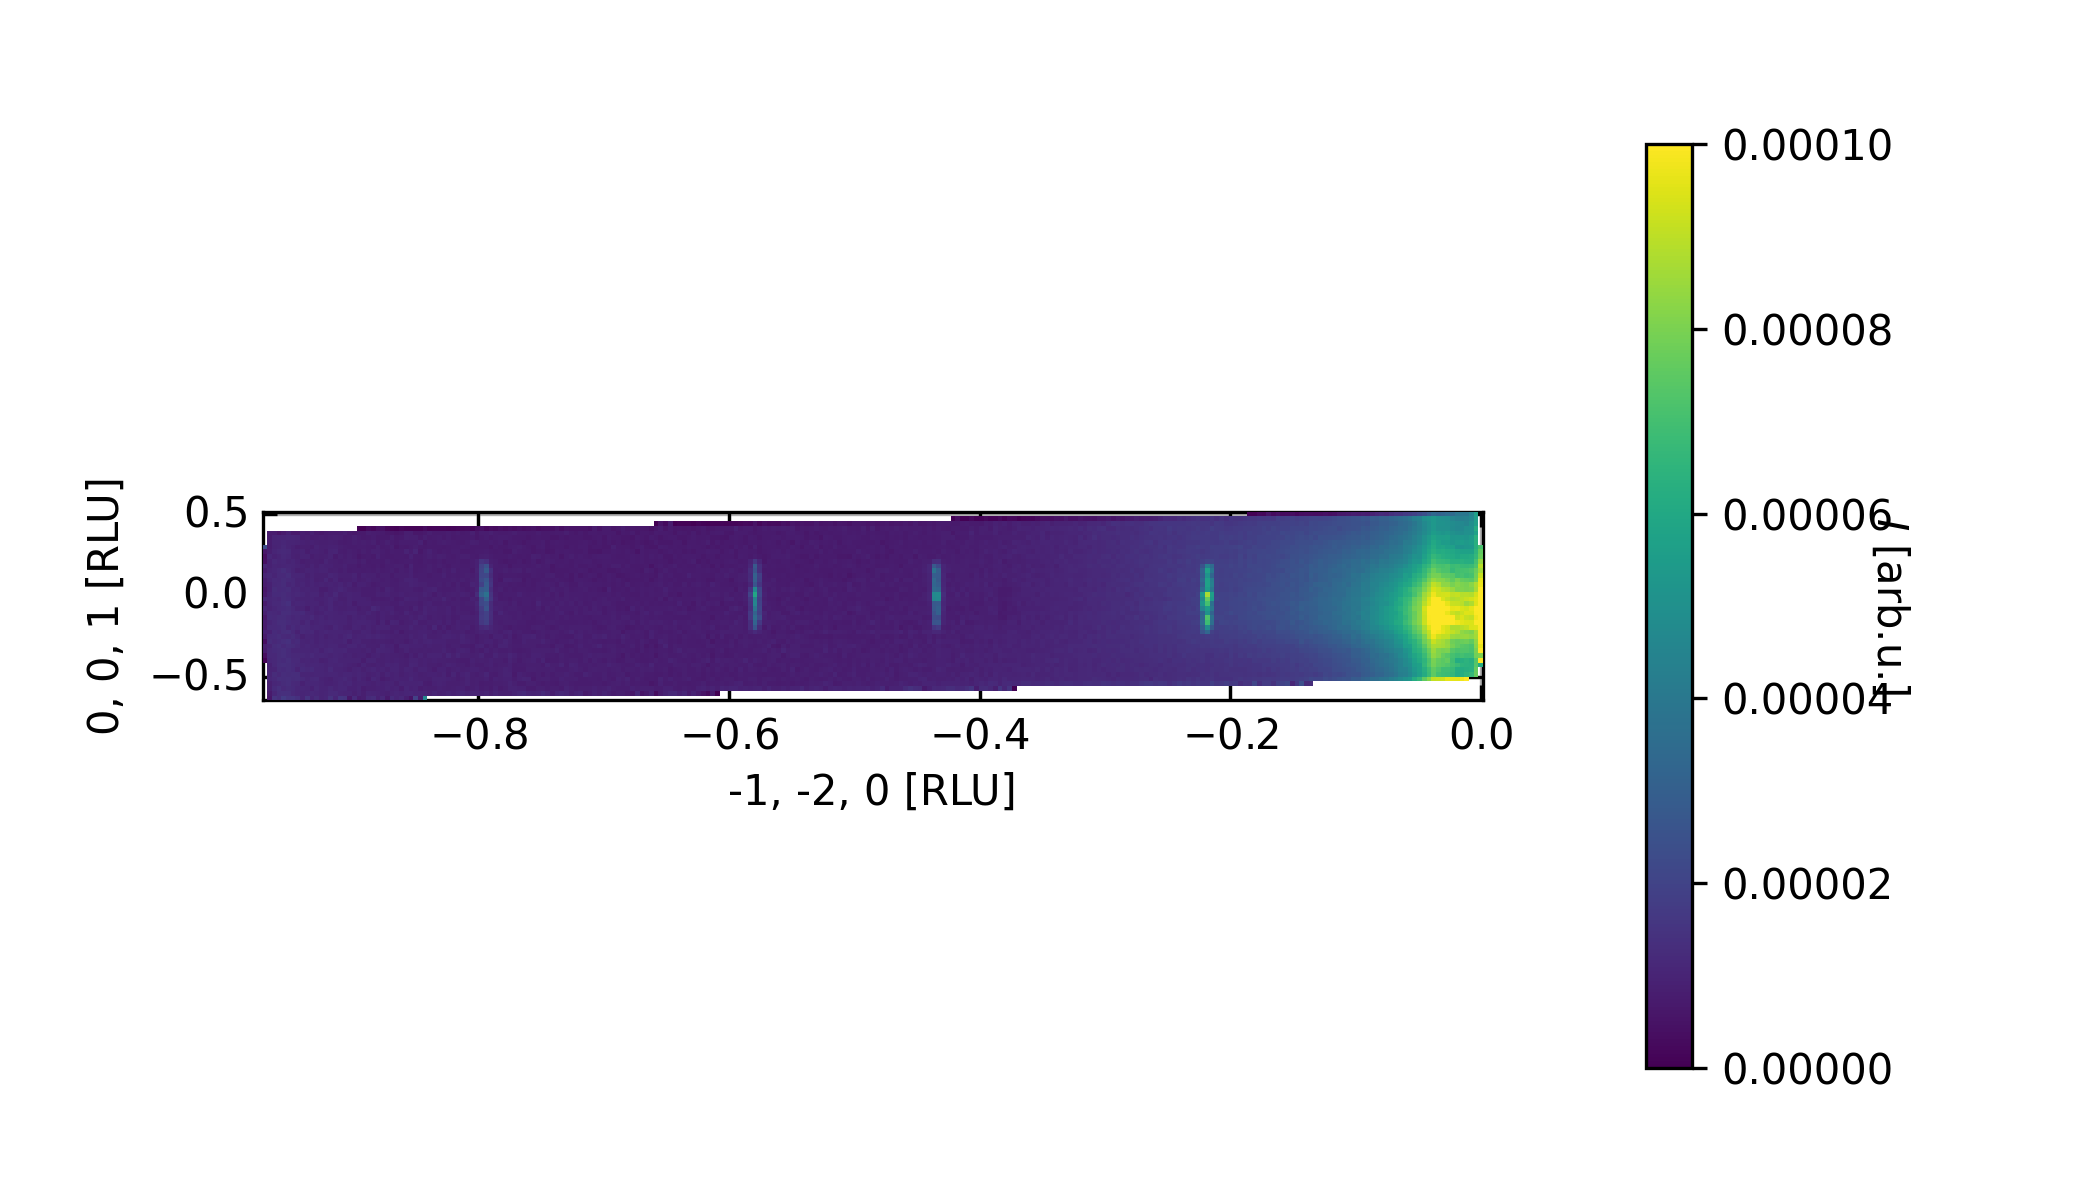
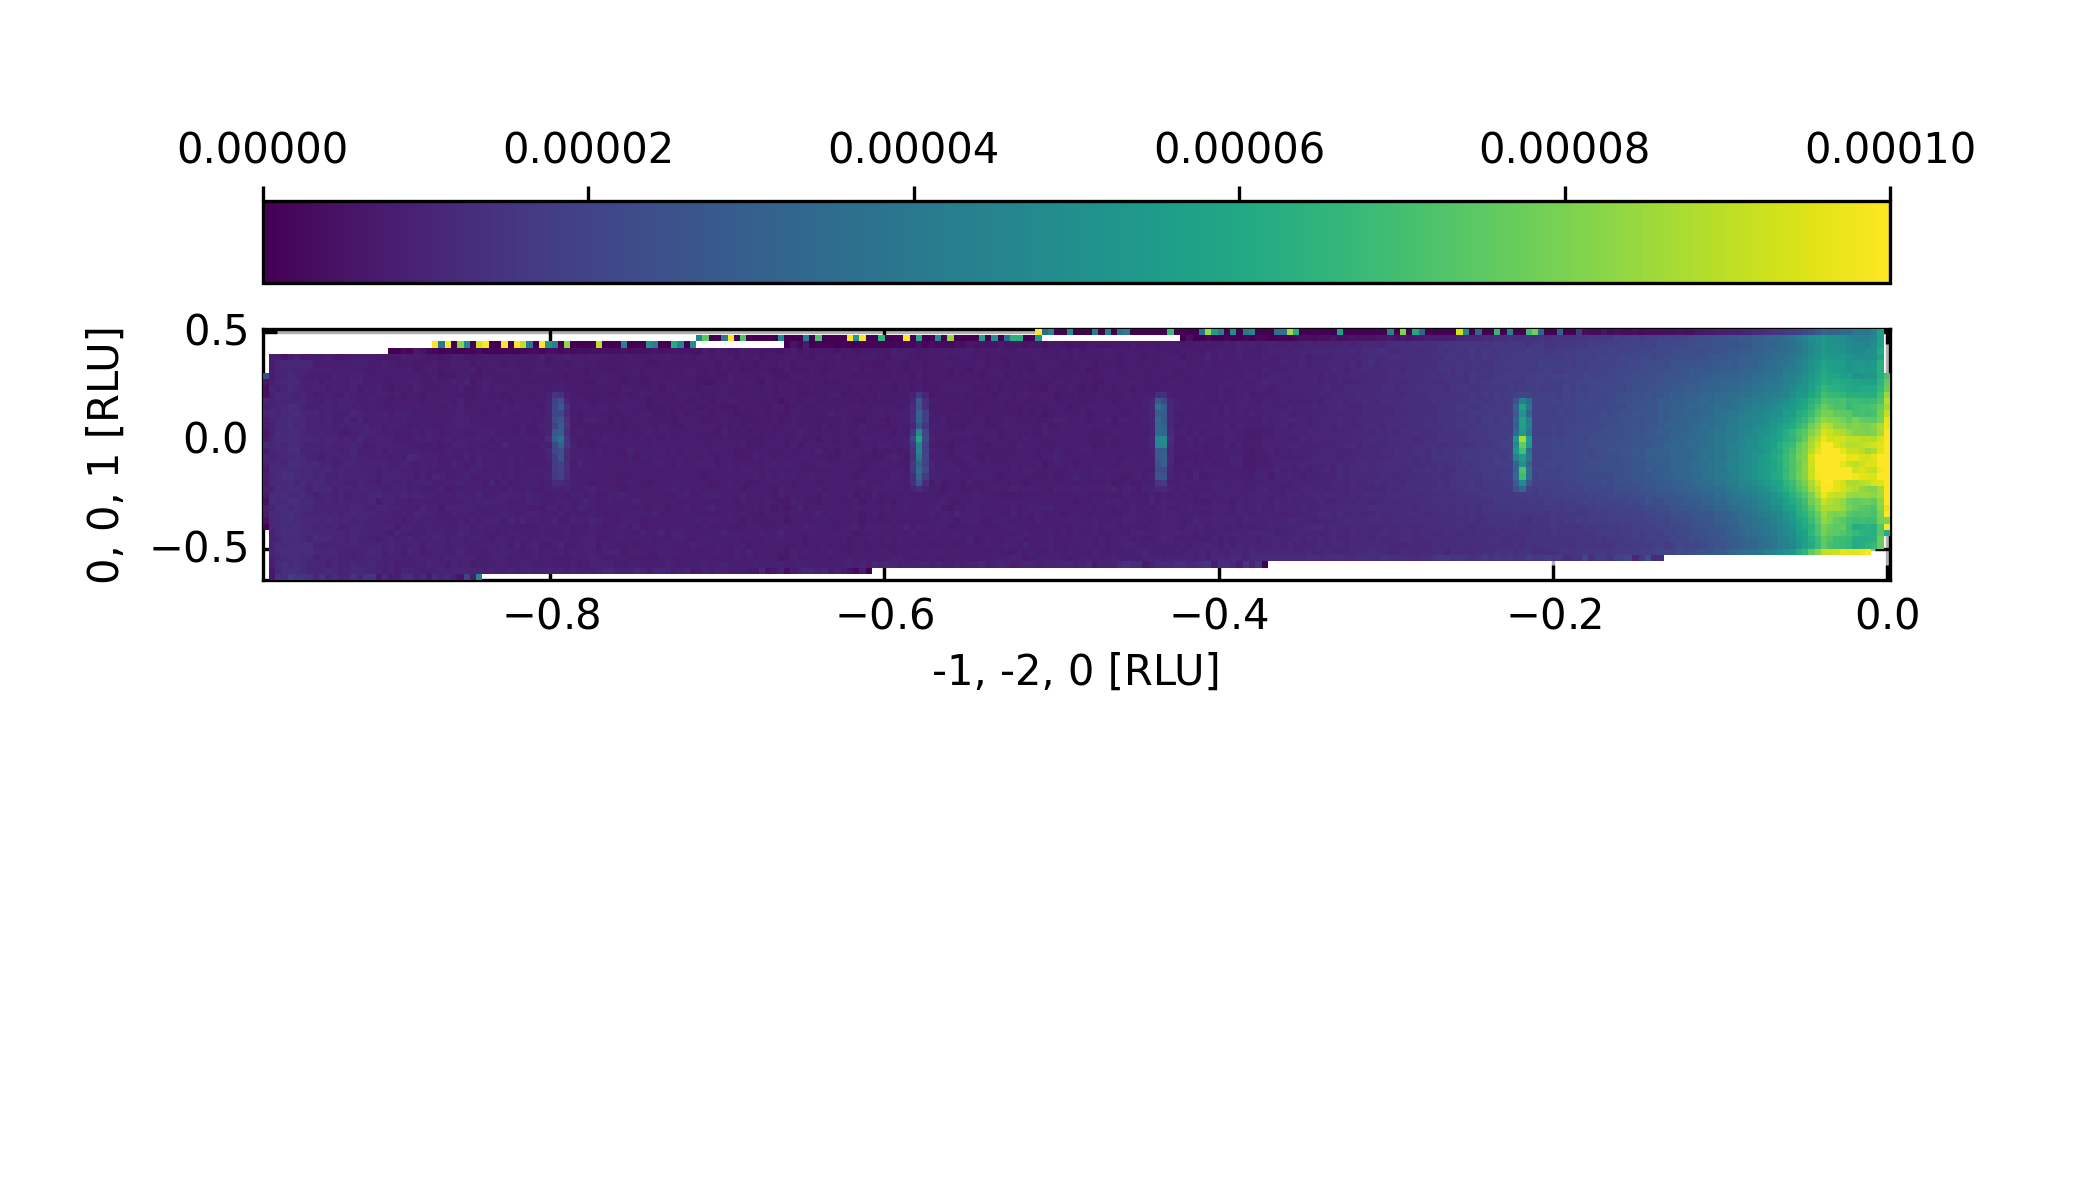
Update of cutQplant and tutorials

Changed region(s): [[0.031, 0.0925, 0.9286, 0.925], [0.031, 0.5858, 0.0619, 0.6167]]

diff --git a/DMCpy/DataSet.py b/DMCpy/DataSet.py
@@ -2189,11 +2189,11 @@ class DataSet(object):
             
             for idx in _tools.arange(0,len(df),steps):
                 
-                q = np.einsum('ij,jk->ik',totalRotMatDF,df.q[idx[0]:idx[1]].reshape(3,-1),optimize='greedy')
-
-                mask = df.mask[idx]
+                q = np.einsum('ij,jk->ik',totalRotMatDF,df.q[idx[0]:idx[-1]].reshape(3,-1),optimize='greedy')
+                mask = df.mask[idx[0]:idx[-1]]
+                
                 # Check that the points are in the plane and take only the local x and y coordinates
-                inside = np.logical_or(np.abs(q[2]-translation)<width*0.5,mask)
+                inside = np.logical_or(np.abs(q[2]-translation)<width*0.5,mask.flatten())
                 q = q[:2,inside]
                 print(df.fileName,'from',idx[0],'to',idx[-1])
                 if q.shape[1] == 0:

diff --git a/Tutorials/f_interactiveView.py b/Tutorials/f_interactiveView.py
@@ -29,8 +29,7 @@ def Tester():
     ds = DataSet.DataSet([df])
 
     # subtract backround in a A3 range. This must be done on the dataSet level and act on every dataFile in the dataSet
-    #ds.subtractBkgRange(50,100)
-    # this has a bug...
+    ds.subtractBkgRange(50,100,saveToFile=True, saveToNewFile = 'data_bkgRange.hdf' )
 
     # run the Interactive Viewer
     IA2 = ds[0].InteractiveViewer()
@@ -40,7 +39,7 @@ def Tester():
     IA2.fig.savefig(r'docs/Tutorials/InteractiveViewer/InteractiveViewer2.png',format='png',dpi=300)
 
     # change index of A3
-    IA2.plotSpectrum(index=114)
+    IA2.plotSpectrum(index=214)
 
     IA2.fig.savefig(r'docs/Tutorials/InteractiveViewer/InteractiveViewer2_114.png',format='png',dpi=300)
 

diff --git a/Tutorials/j_Cut2D_hk0.py b/Tutorials/j_Cut2D_hk0.py
@@ -86,6 +86,10 @@ def Tester():
     ax.set_clim(0,0.0001)
     ax.set_xticks_number(7)
     ax.set_yticks_number(3)
+
+    ax.colorbar.set_label('')
+    ax.colorbar.remove()
+    plt.gcf().colorbar(ax.colorbar.mappable,ax=ax,orientation='horizontal', location='top')
     
     planeFigName = 'docs/Tutorials/2Dcut_hk0_side'
     plt.savefig(planeFigName+'.png',format='png', dpi=300)

diff --git a/Tutorials/k_Cut2D_hhl.py b/Tutorials/k_Cut2D_hhl.py
@@ -87,6 +87,11 @@ def Tester():
     ax.set_xticks_number(7)
     ax.set_yticks_number(3)
     
+    ax.colorbar.set_label('')
+    ax.colorbar.remove()
+    plt.gcf().colorbar(ax.colorbar.mappable,ax=ax,orientation='horizontal', location='top')
+    
+    
     planeFigName = 'docs/Tutorials/2Dcut_hhl_side'
     plt.savefig(planeFigName+'.png',format='png', dpi=300)
     

diff --git a/Tutorials/m_subtract.py b/Tutorials/m_subtract.py
@@ -63,6 +63,7 @@ def Tester():
     Viewer2 = ds.Viewer3D(0.03,0.03,0.03,rlu=False)
     Viewer2.set_clim(0,0.001)
     Viewer2.setPlane(int(zSteps/2)-1)
+    Viewer2.ax.axis('equal')
     
     fig2 = Viewer2.ax.get_figure()
     fig2.savefig(r'docs/Tutorials/subtract/3DSubMask.png',format='png',dpi=300)        

diff --git a/docs/Tutorials/InteractiveViewer/InteractiveViewer.rst b/docs/Tutorials/InteractiveViewer/InteractiveViewer.rst
@@ -32,8 +32,7 @@ A useful feature is to use a defined A3 range to subtract background from a samp
    ds = DataSet.DataSet([df])
    
    # subtract backround in a A3 range. This must be done on the dataSet level and act on every dataFile in the dataSet
-   #ds.subtractBkgRange(50,100)
-   # this has a bug...
+   ds.subtractBkgRange(50,100,saveToFile=True, saveToNewFile = 'data_bkgRange.hdf' )
    
    # run the Interactive Viewer
    IA2 = ds[0].InteractiveViewer()
@@ -43,7 +42,7 @@ A useful feature is to use a defined A3 range to subtract background from a samp
    IA2.fig.savefig('figure1.png',format='png')
    
    # change index of A3
-   IA2.plotSpectrum(index=114)
+   IA2.plotSpectrum(index=214)
    
    IA2.fig.savefig('figure2.png',format='png')
    

diff --git a/docs/Tutorials/Cut2D_hhl.rst b/docs/Tutorials/Cut2D_hhl.rst
@@ -88,6 +88,11 @@ After inspecting the scattering plane, we want to perform cuts along certain dir
    ax.set_xticks_number(7)
    ax.set_yticks_number(3)
    
+   ax.colorbar.set_label('')
+   ax.colorbar.remove()
+   plt.gcf().colorbar(ax.colorbar.mappable,ax=ax,orientation='horizontal', location='top')
+   
+   
    planeFigName = 'docs/Tutorials/2Dcut_hhl_side'
    plt.savefig('figure1.png',format='png')
    

diff --git a/docs/Tutorials/Cut2D_hk0.rst b/docs/Tutorials/Cut2D_hk0.rst
@@ -88,6 +88,10 @@ After inspecting the scattering plane, we want to perform cuts along certain dir
    ax.set_xticks_number(7)
    ax.set_yticks_number(3)
    
+   ax.colorbar.set_label('')
+   ax.colorbar.remove()
+   plt.gcf().colorbar(ax.colorbar.mappable,ax=ax,orientation='horizontal', location='top')
+   
    planeFigName = 'docs/Tutorials/2Dcut_hk0_side'
    plt.savefig('figure1.png',format='png')
    

diff --git a/docs/Tutorials/subtract/subtract.rst b/docs/Tutorials/subtract/subtract.rst
@@ -64,6 +64,7 @@ It can be very useful to subtract two data sets from each other, e.g. to look fo
    Viewer2 = ds.Viewer3D(0.03,0.03,0.03,rlu=False)
    Viewer2.set_clim(0,0.001)
    Viewer2.setPlane(int(zSteps/2)-1)
+   Viewer2.ax.axis('equal')
    
    fig2 = Viewer2.ax.get_figure()
    fig2.savefig('figure3.png',format='png')        
